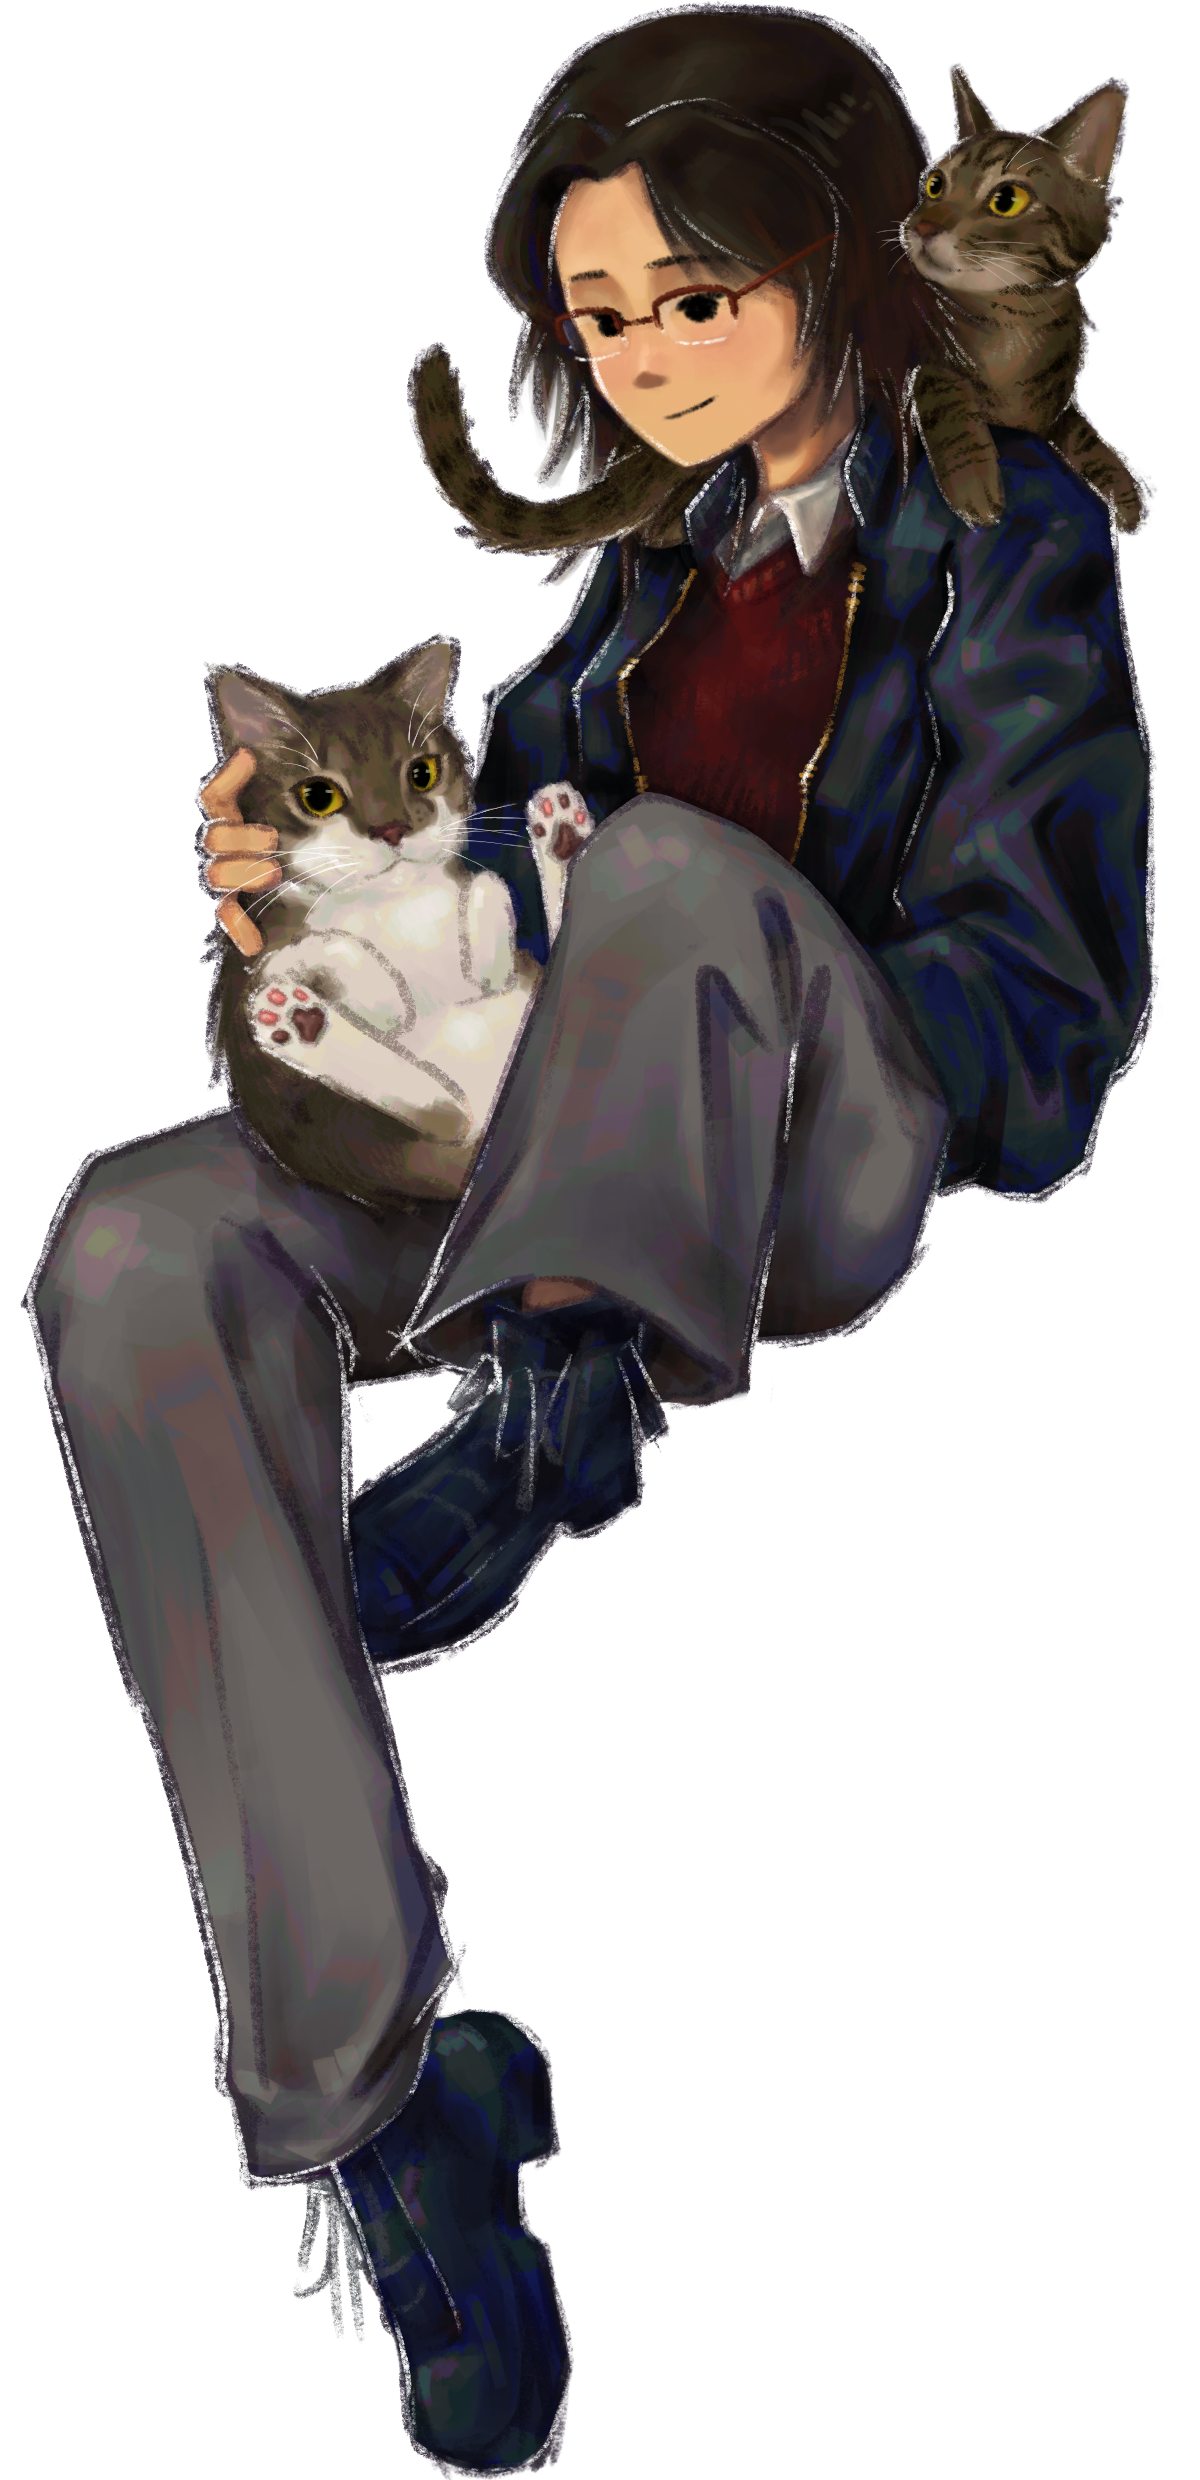
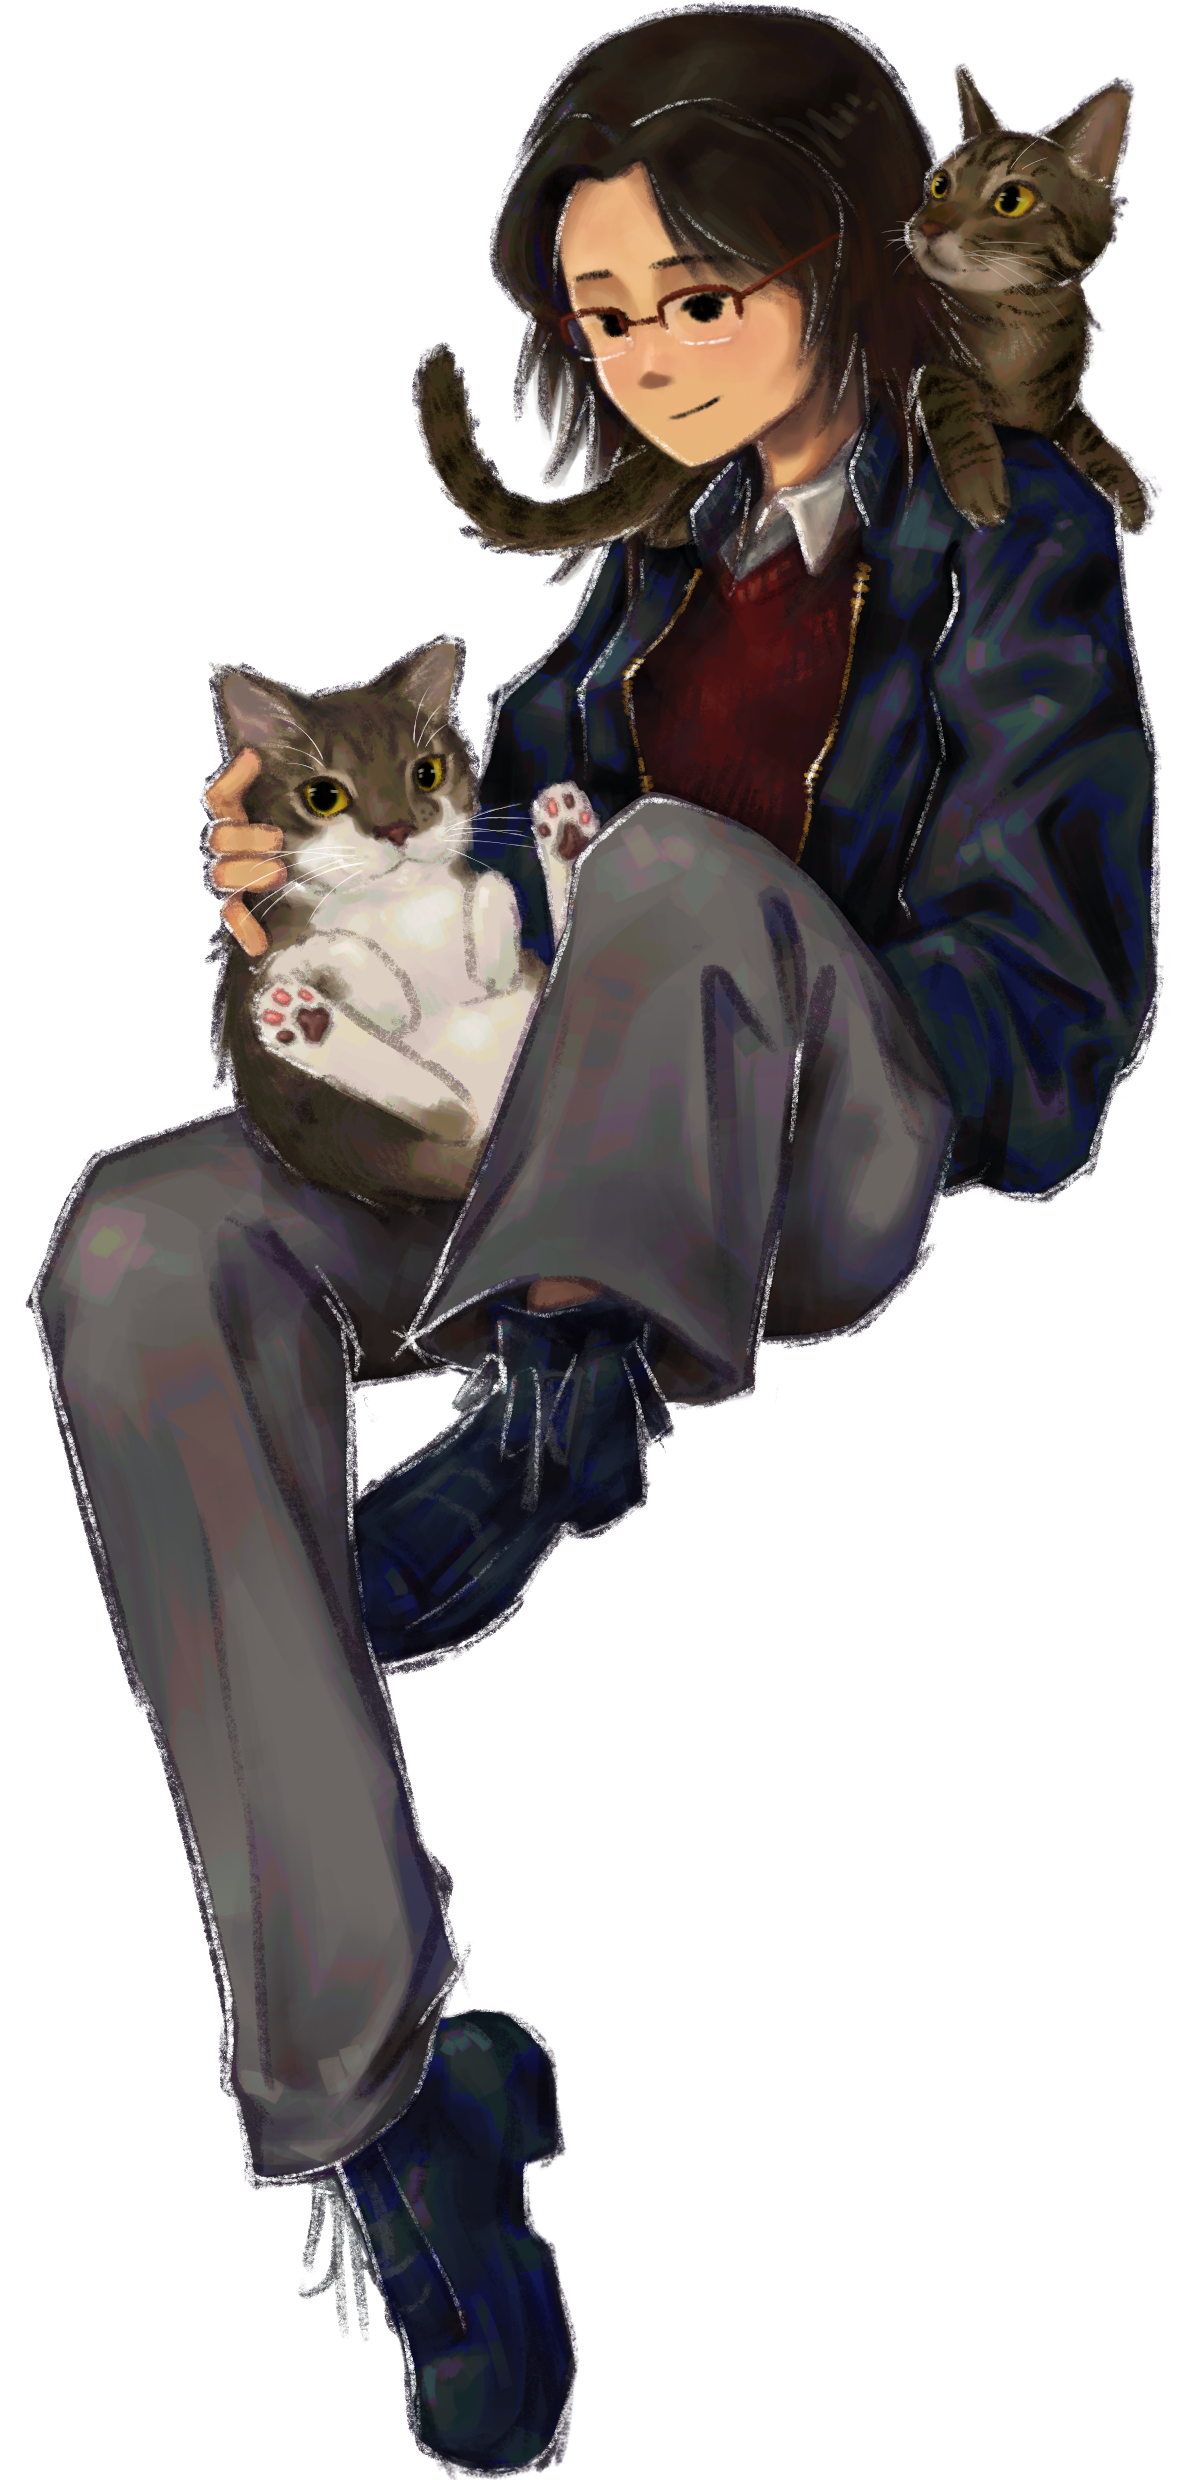
updated portrait

diff --git a/markdown/projects.md b/markdown/projects.md
@@ -13,7 +13,7 @@
 ##### July 2025 - Present
 > The website you are looking at right now! Originally created to force myself to learn Next.js and TailwindCSS. I really should be updating this more often, but alas.
 
-<!-- >[Github Repo](https://github.com/angelazqian/angelazqian.github.io) -->
+>[Github Repo](https://github.com/angelazqian/angelazqian.github.io)
 
 
 ## [Eyesore](https://angelazqian.github.io/eyesore)
